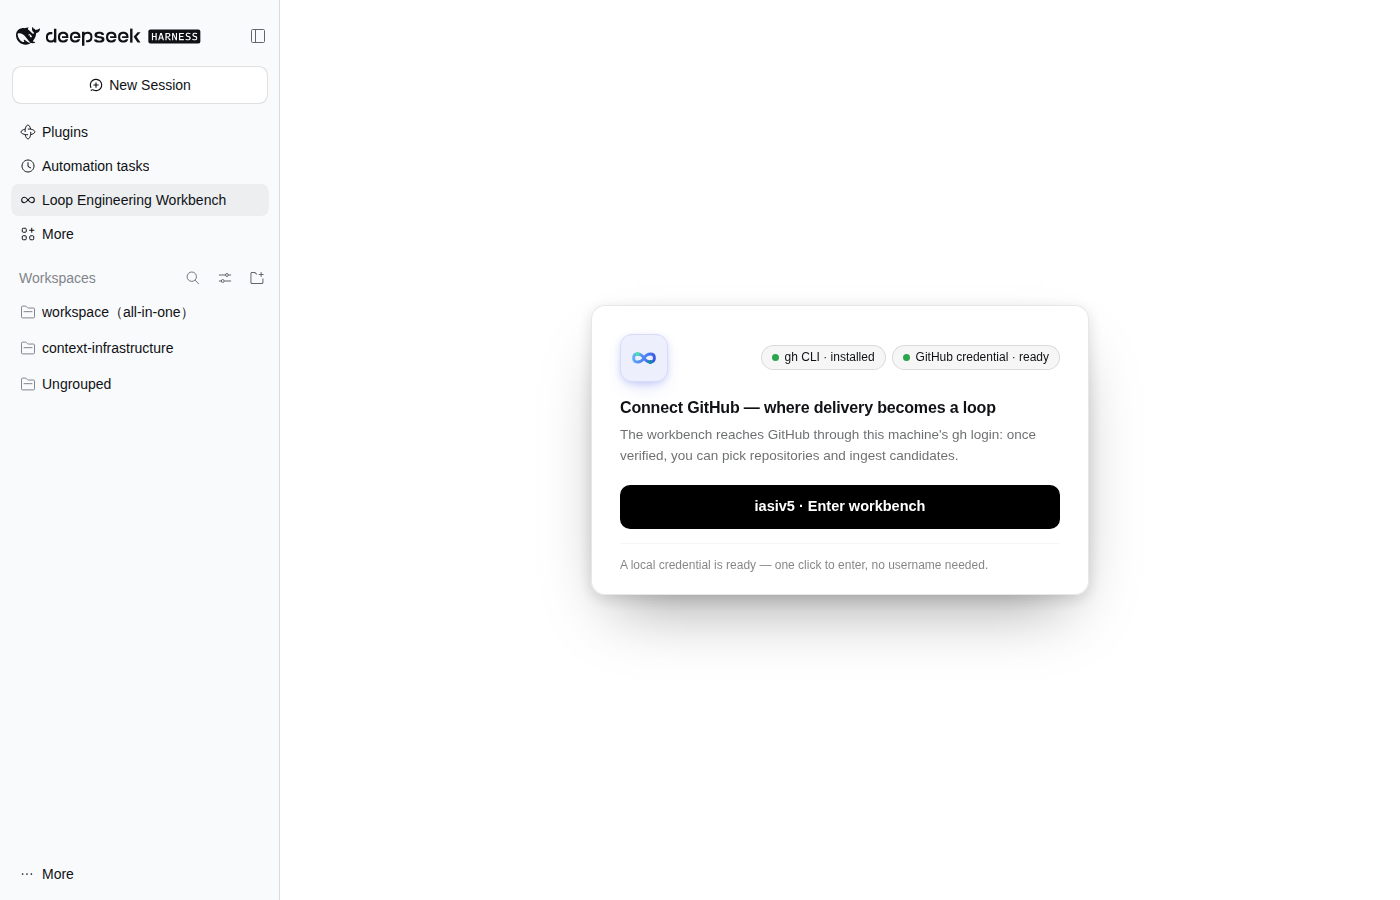
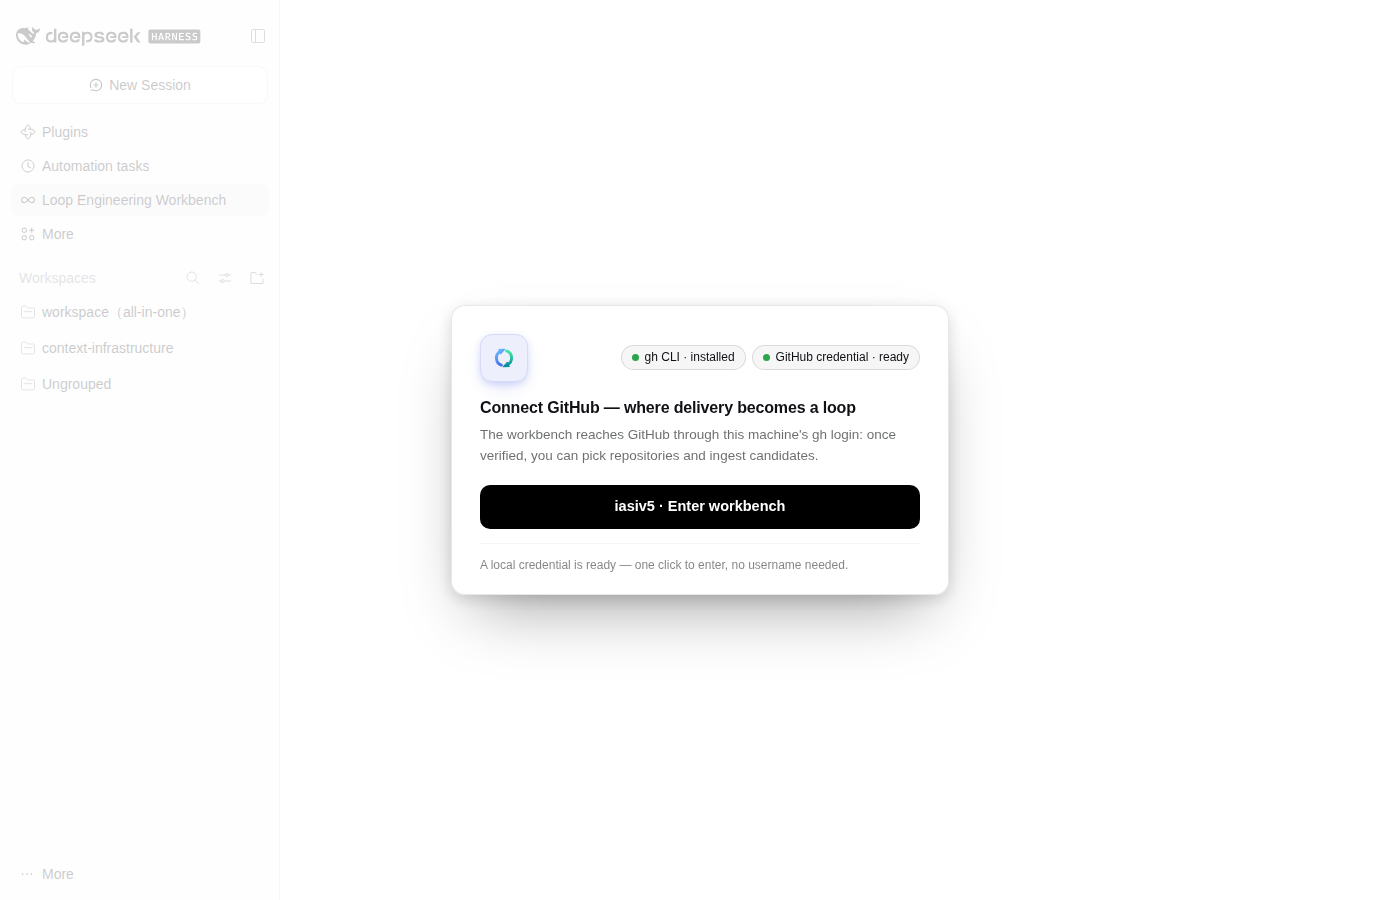
fix(ui): 登录闸 fixed 全屏接管——手机浏览器看不全
- gateWrap 从 absolute 升级 fixed（视口定位，逃出宿主 overflow/高度链），z-index 置顶
- safe-area 内距（刘海/手势条）+ overscroll-behavior:contain 防滚动连锁；grid+margin:auto 保证超高可滚
- <=520px 降档补齐（pill 间距/授权码字号/CTA 加高至 46px 触控友好）
- UI 探针新增 390x844 移动端取证（ui-mobile.png + inView 几何断言，侧栏不可点时 SKIP 不红）
- 冒烟 20261113-194622 PASS（build=49659c4e7bd3）

diff --git a/lib/client.js b/lib/client.js
@@ -608,8 +608,10 @@ var CSS = [
   ".empty,.error{padding:24px 0;color:color-mix(in srgb,currentColor 55%,transparent)}",
   ".chips{display:flex;gap:6px;flex-wrap:wrap;align-items:center;min-height:24px}",
   ".intake>h3,.triage>h3{font-size:12px;font-weight:600;letter-spacing:.02em;margin:16px 0 6px;color:color-mix(in srgb,currentColor 60%,transparent)}",
-  /* 登录闸：全屏遮罩压暗皮肤壁纸 → 居中卡片（近不透明 + 功能性 blur 保证任何皮肤下可读） */
-  ".gateWrap{position:absolute;inset:0;display:grid;place-items:center;padding:24px;background:color-mix(in srgb,canvas 78%,transparent);overflow:auto}",
+  /* 登录闸：fixed 全屏接管（视口定位，逃出宿主 overflow/高度链——手机窄屏也能看全）；
+     dvh 兜底动态地址栏，safe-area 留出刘海/手势条，grid+margin:auto 保证超高内容可滚动 */
+  ".gateWrap{position:fixed;inset:0;z-index:60;display:grid;place-items:center;padding:24px;background:color-mix(in srgb,canvas 78%,transparent);overflow:auto;overscroll-behavior:contain}",
+  "@supports (height:100dvh){.gateWrap{padding:max(16px,env(safe-area-inset-top)) max(16px,env(safe-area-inset-right)) max(16px,env(safe-area-inset-bottom)) max(16px,env(safe-area-inset-left))}}",
   ".gate{width:min(440px,100%);margin:auto;display:flex;flex-direction:column;padding:28px 28px 20px;border-radius:14px;background:color-mix(in srgb,canvas 96%,transparent);backdrop-filter:blur(14px);border:1px solid color-mix(in srgb,currentColor 10%,transparent);box-shadow:0 32px 64px -24px rgb(0 0 0 /.4),0 4px 16px rgb(0 0 0 /.14);animation:gate-in 220ms cubic-bezier(.22,1,.36,1)}",
   "@media (prefers-reduced-motion:reduce){.gate{animation:none}}",
   "@keyframes gate-in{from{transform:translateY(8px);opacity:.6}}",
@@ -633,7 +635,7 @@ var CSS = [
   ".gateCode{display:flex;align-items:center;justify-content:space-between;gap:12px;margin:18px 0 0;padding:12px 16px;border-radius:10px;background:color-mix(in srgb,currentColor 5%,transparent);border:1px solid color-mix(in srgb,currentColor 14%,transparent)}",
   ".gateCode b{font-family:ui-monospace,SFMono-Regular,Menlo,Consolas,monospace;font-size:26px;font-weight:700;letter-spacing:.08em}",
   ".gateLink{display:block;margin:10px 0 0;font-size:13px;color:inherit;text-underline-offset:2px}",
-  "@media (max-width:520px){.gateWrap{padding:12px}.gate{padding:22px 16px 14px;border-radius:12px}.gate h3{font-size:15px}.gate .intro{font-size:13px}.gateCode b{font-size:22px}}",
+  "@media (max-width:520px){.gate{padding:22px 16px 14px;border-radius:12px}.gate h3{font-size:15px}.gate .intro{font-size:13px}.gateStatus{margin-top:12px}.gateCode b{font-size:20px;letter-spacing:.05em}.gate .cta{height:46px;font-size:15px}}",
   ".gate .err{font-size:13px;line-height:1.5;display:none;margin:12px 0 0;padding:8px 12px;border-radius:8px;border:1px solid color-mix(in srgb,#d1242f 35%,transparent);background:color-mix(in srgb,#d1242f 9%,canvas)}",
   ".gate .note{margin:14px 0 0;padding:12px 0 0;border-top:1px solid color-mix(in srgb,currentColor 8%,transparent);font-size:12px;line-height:1.55;color:color-mix(in srgb,currentColor 52%,transparent)}"
 ].join("\n");
@@ -1091,7 +1093,7 @@ function installActions({ getLang }) {
 // src/client/index.mjs
 var React = require("react");
 var h = React.createElement;
-var BUILD = true ? "14f3f490dc0a" : "dev";
+var BUILD = true ? "49659c4e7bd3" : "dev";
 var PANEL_KEY = "dsh-l.workbench";
 var name = "dsh-l";
 var isPlugin = true;
@@ -1129,4 +1131,4 @@ function apply(ctx) {
 		return module.exports;
 	}
 });
-/* dsh-l-build:14f3f490dc0a */
+/* dsh-l-build:49659c4e7bd3 */

diff --git a/lib/host.js b/lib/host.js
@@ -915,7 +915,7 @@ function armInterval({ interval, getMinutes, refresh }) {
 
 // src/host.mjs
 var execFile = promisify(execFileCb);
-var BUILD = true ? "14f3f490dc0a" : "dev";
+var BUILD = true ? "49659c4e7bd3" : "dev";
 var UNWIRED = { runTriage: async () => ({ updated: [], failed: "triage-not-wired" }) };
 var name = "dsh-l";
 var inject = ["webServer", "credentials", "agents", "agentDefaultModel", "timer", "llm"];
